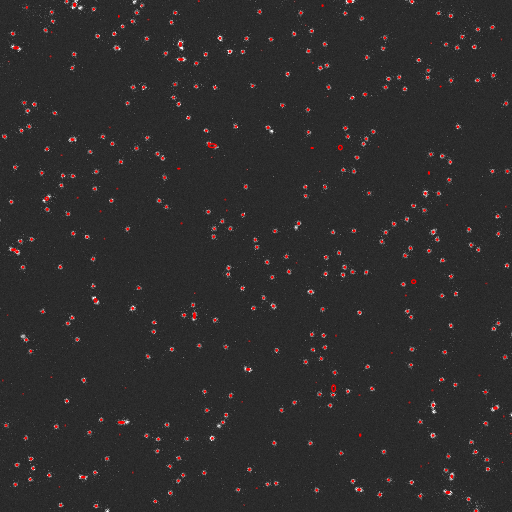
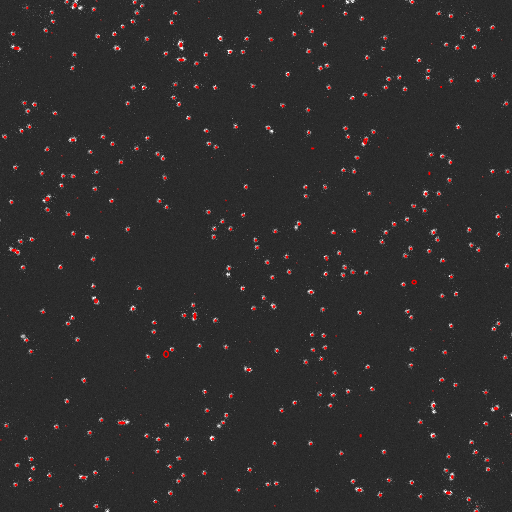
Rather use new_output_frame

diff --git a/scripts/tirf_script.py b/scripts/tirf_script.py
@@ -1,4 +1,6 @@
 import os.path
+import pathlib
+import math
 import glob
 
 import numpy
@@ -6,23 +8,29 @@ import numpy
 from bioimaging.io import read_spatiocyte
 from bioimaging.config import Config
 from bioimaging.epifm import EPIFMVisualizer
-from bioimaging.image import convert_npy_to_8bit_image, convert_8bit, save_image_with_spots, show_with_spots
+from bioimaging.image import convert_npy_to_8bit_image, convert_8bit, save_image_with_spots, show_with_spots, save_image
 from bioimaging.spot_detection import spot_detection, blob_detection
 
 
 def test_epifm() :
     exposure_time = 0.100
+    # t0, t1 = 0.0, exposure_time * 100
     t0, t1 = 0.0, exposure_time * 2
     max_count = None # 20
     rndseed = 0
+    cmin, cmax = 1900, 2500
     input_path = './scripts/data/inputs_epifm'
     output_path = './scripts/data/outputs_tirf'
-    cmin, cmax = 1900, 2500
+
+    output_path_ = pathlib.Path(output_path)
+    if not output_path_.exists():
+        output_path_.mkdir()
 
     rng = numpy.random.RandomState(rndseed)
 
     ## read input data
-    dataset = read_spatiocyte(t0, t1, input_path, observable='S', max_count=max_count)
+    # dataset = read_spatiocyte(t0, t1, input_filename=os.path.join(input_path, 'pt-input.csv'), filenames=glob.glob(os.path.join(input_path, 'pt-000000??0.0.csv')), observable='S', max_count=max_count)
+    dataset = read_spatiocyte(t0, t1, pathto=input_path, observable='S', max_count=max_count)
 
     config = Config()
 
@@ -49,34 +57,30 @@ def test_epifm() :
     config.set_effects_fluorescence(quantum_yield=0.61, abs_coefficient=83400)
     config.set_effects_photobleaching(tau0=2.27, alpha=0.73)
 
-    # ## create image
-    # sim = EPIFMVisualizer()
-    # sim.initialize(config, rng=rng)
+    ## create image
+    sim = EPIFMVisualizer()
+    sim.initialize(config, rng=rng)
 
-    # ## bleaching
-    # new_dataset = sim.apply_photophysics_effects(dataset, rng=rng)
+    ## bleaching
+    new_dataset = sim.apply_photophysics_effects(dataset, rng=rng)
 
-    # sim.output_frames(new_dataset, pathto=output_path, rng=rng)
-    # # sim.output_frames(dataset, pathto=output_path, rng=rng)
+    num_frames = math.ceil((t1 - t0) / exposure_time)
+    print(num_frames)
 
-    output_filenames = glob.glob(os.path.join(output_path, 'image_*.npy'))
+    for i in range(num_frames):
+        camera, true_data = sim.new_output_frame(new_dataset, i, rng=rng)
+        # camera = numpy.load(output_path_.joinpath('image_{:07d}.npy'.format(i)))
+        # true_data = numpy.load(output_path_.joinpath('true_{:07d}.npy'.format(i)))
 
-    for filename in output_filenames:
-        # convert_npy_to_8bit_image(filename, cmin=cmin, cmax=cmax)
-
-        data = numpy.load(filename)
-        data = data[: , : , 1]
-        bytedata = convert_8bit(data, cmin, cmax, 0, 255)
-
-        ## spot-detection
+        data = camera[: , : , 1]
+        bytedata = convert_8bit(data, cmin, cmax)
         spots = spot_detection(data, min_sigma=2.0, max_sigma=4.0, num_sigma=20, threshold=10.0, overlap=0.5)
 
-        ## draw spots
-        save_image_with_spots('{}.png'.format(os.path.splitext(filename)[0]), bytedata, spots, low=0, high=255)
-
-        # blobs = blob_detection(data, min_sigma=2.0, max_sigma=4.0, num_sigma=20, threshold=10.0, overlap=0.5)
-        # spots = spot_detection(data, blobs=blobs, opt=1)
-        # show_with_spots(bytedata, spots, blobs, low=0, high=255)
+        numpy.save(str(output_path_.joinpath('image_{:07d}.npy'.format(i))), camera)
+        numpy.save(str(output_path_.joinpath('true_{:07d}.npy'.format(i))), true_data)
+        numpy.save(str(output_path_.joinpath('spot_{:07d}.npy'.format(i))), spots)
+        # save_image(str(output_path_.joinpath('image_{:07d}.png'.format(i))), bytedata, low=0, high=255)
+        save_image_with_spots(str(output_path_.joinpath('image_{:07d}.png'.format(i))), bytedata, spots, low=0, high=255)
 
 
 if __name__ == "__main__":
@@ -91,6 +95,14 @@ if __name__ == "__main__":
 
     test_epifm()
 
-    # import sys
-    # for filename in sys.argv[1: ]:
-    #     convert_npy_to_8bit_image(filename, cmin=1900, cmax=2500)
+    # intensity = []
+    # for filename in pathlib.Path('./scripts/data/outputs_tirf').glob('spot_*.npy'):
+    #     data = numpy.load(str(filename))
+    #     intensity.extend(data.T[0])
+    # intensity = numpy.asarray(intensity)
+
+    # import matplotlib.pylab as plt
+    # fold = 30
+    # print(intensity.min(), intensity.max(), intensity.shape, intensity[intensity < intensity.min() * fold].size / intensity.size)
+    # plt.hist(intensity, bins=30, range=(0.0, intensity.min() * fold))
+    # plt.show()

diff --git a/bioimaging/epifm.py b/bioimaging/epifm.py
@@ -1275,7 +1275,7 @@ class EPIFMVisualizer:
         start_index = numpy.searchsorted(times, t, side='right')
         if start_index != 0:
             start_index -= 1
-        end_index = numpy.searchsorted(times, t + exposure_time, side='left')
+        stop_index = numpy.searchsorted(times, t + exposure_time, side='left')
         if times[start_index] > t:
             warnings.warn("No data input for interval [{}, {}]".format(t, times[start_index]))
 
@@ -1283,7 +1283,7 @@ class EPIFMVisualizer:
 
         # set Fluorophores PSF
         # self.set_fluo_psf(dataset, [(frame_index, t, start_index, end_index)])
-        fluo_psfs = self.get_fluo_psf(frame_data, dataset.lengths)
+        fluo_psfs = self.get_fluo_psfs(frame_data, dataset.lengths)
 
         _log.info('time: {} sec ({})'.format(t, frame_index))
 

diff --git a/bioimaging/spot_detection.py b/bioimaging/spot_detection.py
@@ -139,8 +139,8 @@ def spot_detection(data, min_sigma=1, max_sigma=50, num_sigma=10, threshold=0.2,
             height > 0
             # and 0 <= center_x < data.shape[0]
             # and 0 <= center_y < data.shape[1]
-            # and 0 <= center_x < roi.shape[0]
-            # and 0 <= center_y < roi.shape[1]
+            and 0 <= center_x < roi.shape[0]
+            and 0 <= center_y < roi.shape[1]
             and bg > 0):
             continue
 
